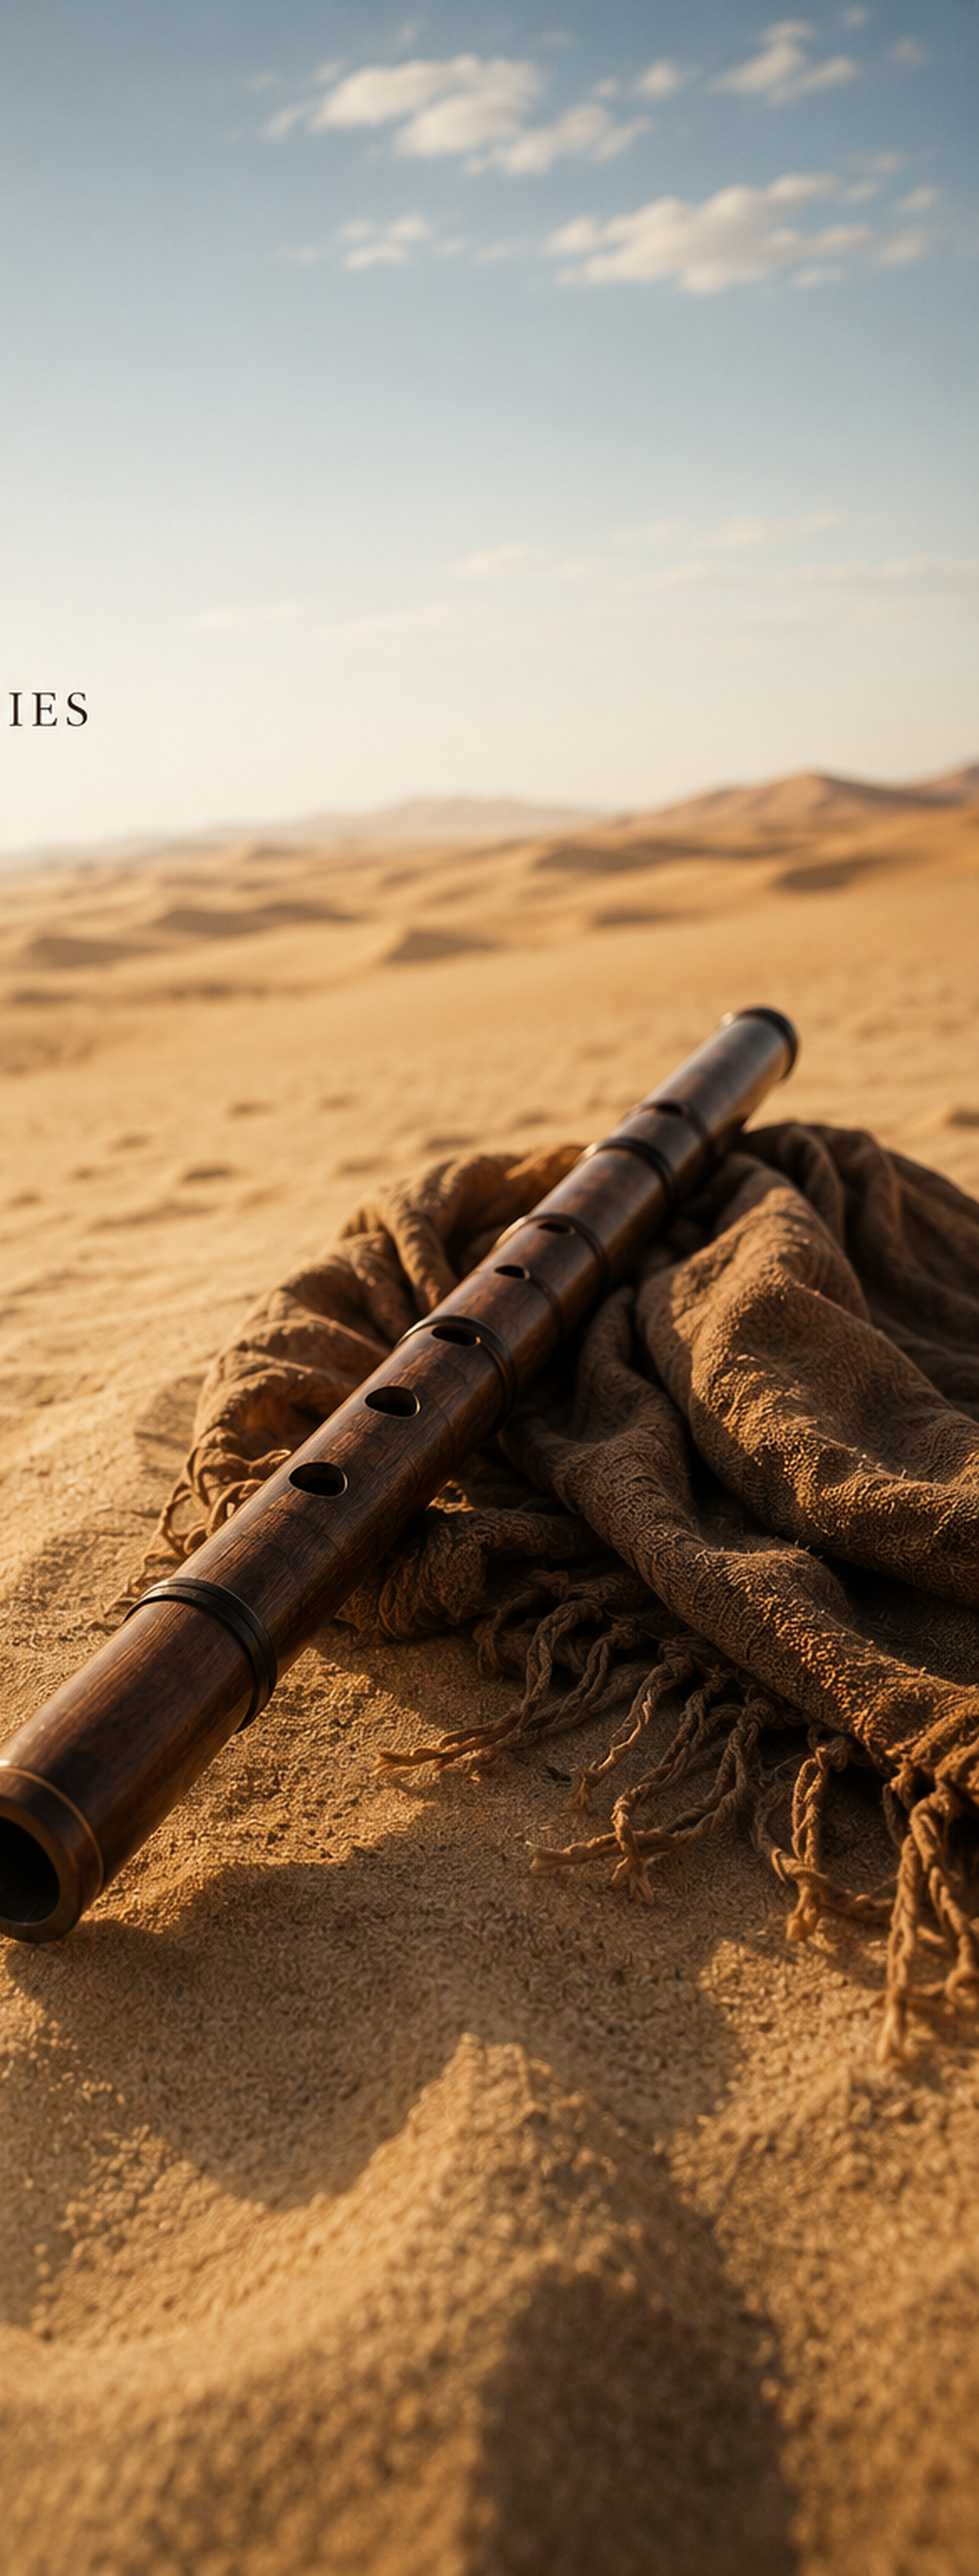
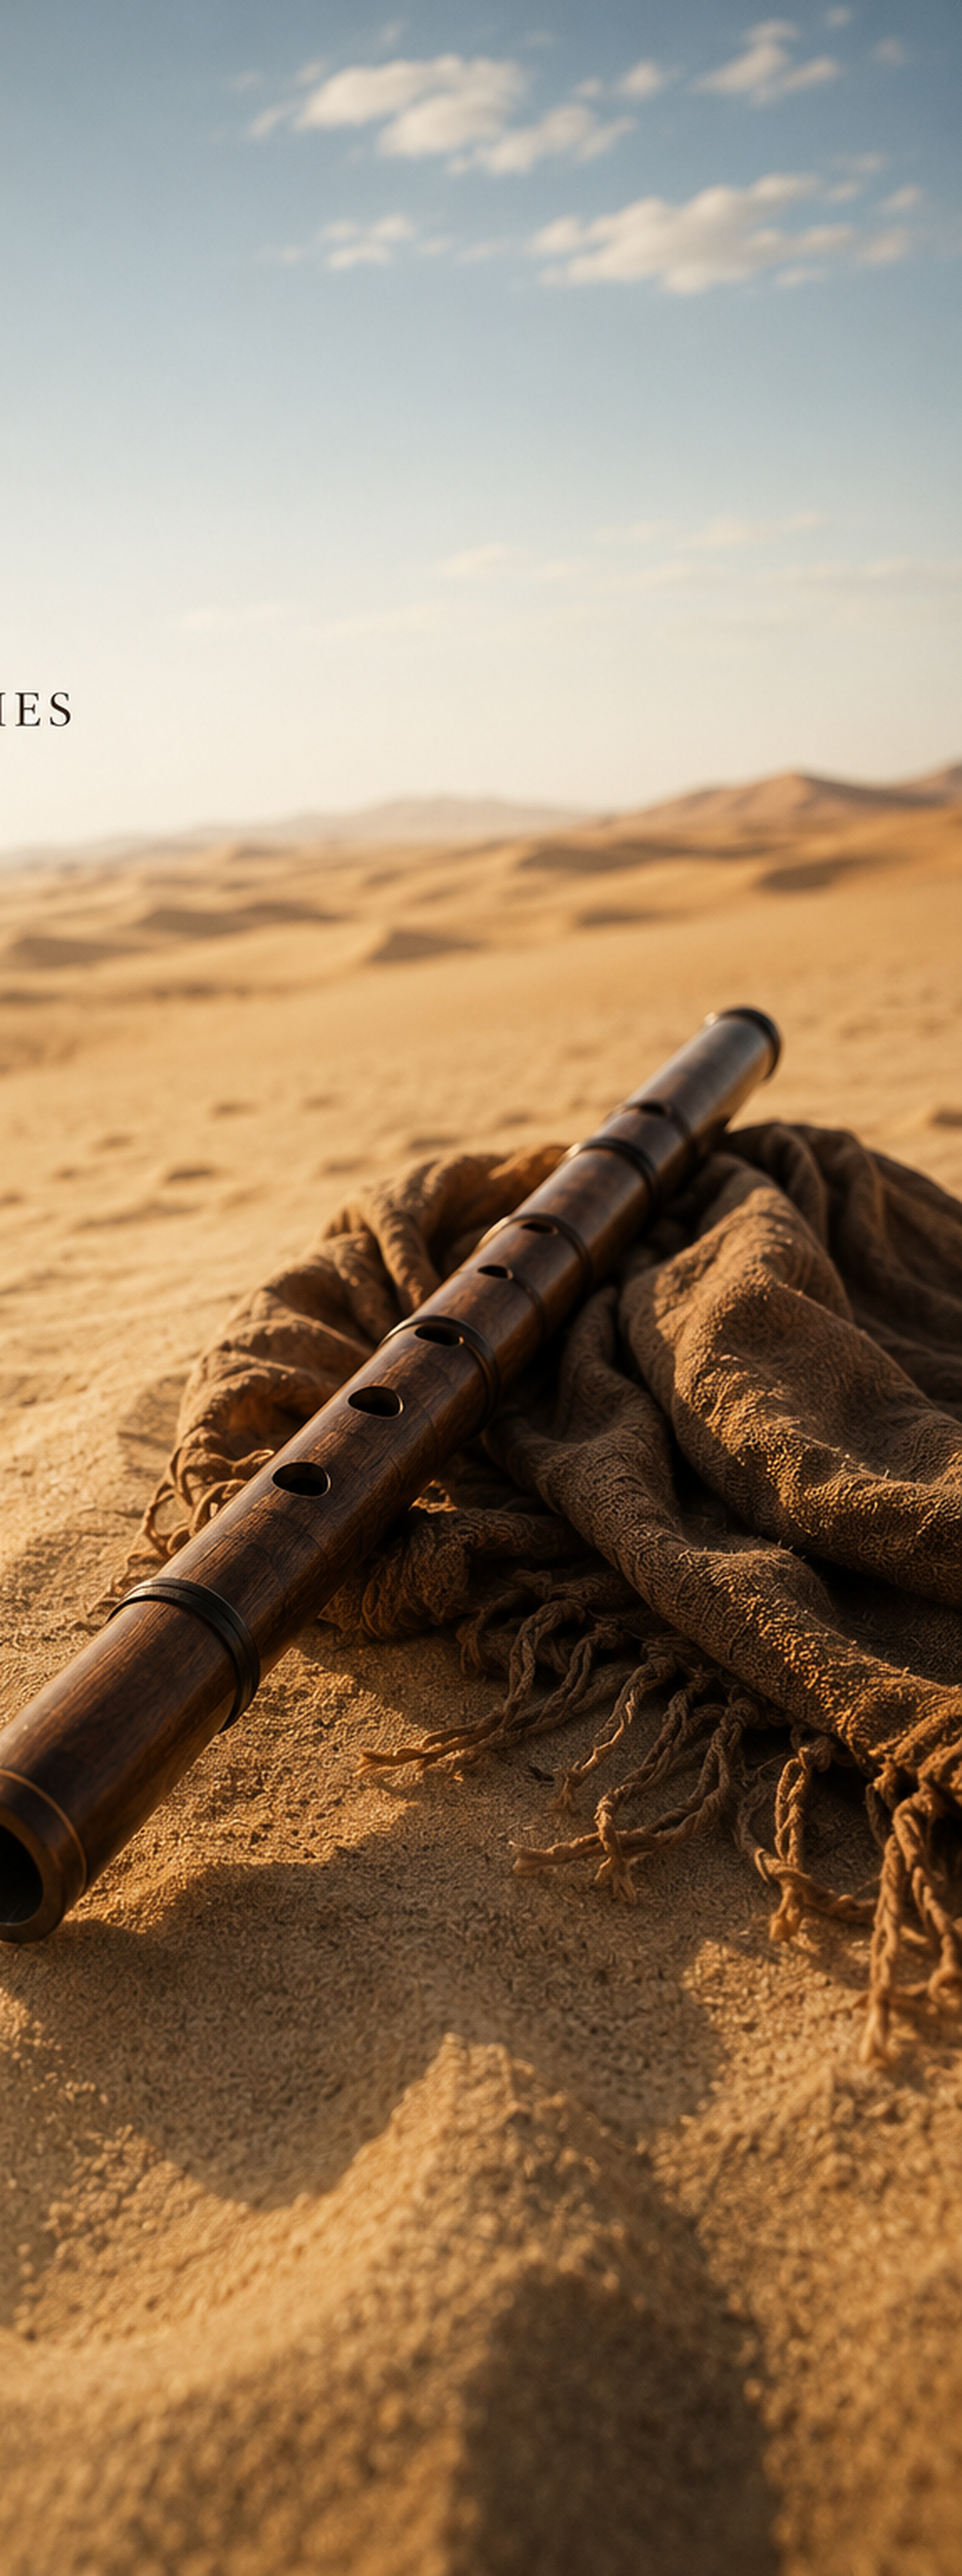
Add files via upload

diff --git a/index.html b/index.html
@@ -1,11 +1,11 @@
-<!doctype html><html lang="en"><head><meta charset="utf-8"><meta name="viewport" content="width=device-width,initial-scale=1"><meta name="description" content="Kambiz Mirzaei — songwriter, composer and producer. Selected music, musical journey and catalogue."><title>Kambiz Mirzaei — Songwriter · Composer · Producer</title><meta name="site-version" content="final-for-now"><style>
-:root{--bg:#d9d1c4;--ink:#171715;--muted:#5d5952;--line:#bfb6a9;--card:#e1d9cd;--accent:#806b52;--max:1180px}
-*{box-sizing:border-box} html{scroll-behavior:smooth} body{margin:0;background:var(--bg);color:var(--ink);font-family:Inter,ui-sans-serif,system-ui,-apple-system,BlinkMacSystemFont,"Segoe UI",sans-serif;line-height:1.65} a{color:inherit;text-decoration:none} .wrap{max-width:var(--max);margin:auto;padding:0 28px} header{min-height:calc(100vh - 116px);display:none;align-items:center;padding-top:58px;border-bottom:1px solid var(--line)} .hero{width:100%;padding:70px 0} .eyebrow{font-size:12px;letter-spacing:.18em;text-transform:uppercase;color:var(--muted);margin-bottom:22px} h1{font-family:Georgia,"Times New Roman",serif;font-size:clamp(54px,9vw,108px);line-height:.9;font-weight:400;letter-spacing:-.028em;margin:0 0 28px} .roles{font-size:18px;letter-spacing:.03em;color:var(--muted);margin-bottom:34px} .intro{max-width:720px;font-size:19px;line-height:1.7} .home-cue{position:absolute;left:50%;bottom:24px;transform:translateX(-50%);font-size:18px;color:var(--muted);animation:cue 1.8s ease-in-out infinite}@keyframes cue{0%,100%{transform:translate(-50%,0);opacity:.45}50%{transform:translate(-50%,7px);opacity:1}} nav{position:fixed;top:0;left:0;right:0;z-index:50;background:rgba(217,209,196,.95);backdrop-filter:blur(12px);border-bottom:1px solid var(--line)} nav .navin{display:flex;gap:28px;align-items:center;min-height:58px;overflow:auto;white-space:nowrap} nav a{font-size:12px;text-transform:uppercase;letter-spacing:.13em;color:var(--muted)} nav a:hover{color:var(--ink)} section{padding:110px 0;border-bottom:1px solid var(--line);scroll-margin-top:72px;display:none} section.active{display:block} header.active{display:flex} .section-kicker{font-size:11px;text-transform:uppercase;letter-spacing:.18em;color:var(--muted);margin-bottom:12px} h2{font-family:Georgia,"Times New Roman",serif;font-size:clamp(38px,5vw,62px);font-weight:400;line-height:1;margin:0 0 18px;letter-spacing:-.035em} .section-lead{max-width:730px;color:var(--muted);font-size:18px;margin-bottom:44px} details{border-top:1px solid var(--line)} details:last-child{border-bottom:1px solid var(--line)} summary{list-style:none;cursor:pointer;display:flex;justify-content:space-between;gap:24px;padding:24px 4px;font-family:Georgia,"Times New Roman",serif;font-size:24px} summary::-webkit-details-marker{display:none} summary span{font-family:system-ui;font-size:22px;color:var(--muted);transition:.2s} details[open]>summary span{transform:rotate(45deg)} .panel-body{padding:0 4px 35px;max-width:850px;color:#37352f} .panel-body p{margin:0 0 18px} .catalog-group summary{font-size:22px} .catalog-body{padding:0 0 34px} .credit-card{background:transparent;border:0;border-top:1px solid var(--line);padding:30px 4px;margin:0} .credit-card h3{font-family:Georgia,"Times New Roman",serif;font-weight:400;font-size:28px;margin:0 0 4px} .meta{color:var(--muted);font-size:14px;margin-bottom:20px} .credit-body{font-size:15px;color:#32302c} .credit-body p{margin:8px 0} .credit-body ol,.credit-body ul{margin:12px 0 22px;padding-left:24px} .subhead{font-size:12px;text-transform:uppercase;letter-spacing:.14em;color:var(--muted);margin-top:26px!important} .credit-body h4{font-size:14px;letter-spacing:.08em;text-transform:uppercase;margin:24px 0 8px} .about-grid{display:grid;grid-template-columns:1fr 1fr;gap:70px} .about-grid p{font-size:17px} .contact-box{display:flex;justify-content:space-between;gap:40px;align-items:flex-end} .contact-box .big{font-family:Georgia,"Times New Roman",serif;font-size:clamp(34px,5vw,58px);line-height:1.05} .site-
+<!doctype html><html lang="en"><head><meta charset="utf-8"><meta name="viewport" content="width=device-width,initial-scale=1"><meta name="description" content="Kambiz Mirzaei — songwriter, composer and producer. Selected music, musical journey and catalogue."><title>Kambiz Mirzaei — Songwriter · Composer · Producer</title><meta name="site-version" content="v45"><style>
+:root{--bg:#e9e2d6;--ink:#171715;--muted:#625e57;--line:#cbc3b6;--card:#f0e9de;--accent:#806b52;--max:1180px}
+*{box-sizing:border-box} html{scroll-behavior:smooth} body{margin:0;background:var(--bg);color:var(--ink);font-family:Inter,ui-sans-serif,system-ui,-apple-system,BlinkMacSystemFont,"Segoe UI",sans-serif;line-height:1.65} a{color:inherit;text-decoration:none} .wrap{max-width:var(--max);margin:auto;padding:0 28px} header{min-height:calc(100vh - 116px);display:none;align-items:center;padding-top:58px;border-bottom:1px solid var(--line)} .hero{width:100%;padding:70px 0} .eyebrow{font-size:12px;letter-spacing:.18em;text-transform:uppercase;color:var(--muted);margin-bottom:22px} h1{font-family:Georgia,"Times New Roman",serif;font-size:clamp(54px,9vw,108px);line-height:.9;font-weight:400;letter-spacing:-.028em;margin:0 0 28px} .roles{font-size:18px;letter-spacing:.03em;color:var(--muted);margin-bottom:34px} .intro{max-width:720px;font-size:19px;line-height:1.7} .home-cue{position:absolute;left:50%;bottom:24px;transform:translateX(-50%);font-size:18px;color:var(--muted);animation:cue 1.8s ease-in-out infinite}@keyframes cue{0%,100%{transform:translate(-50%,0);opacity:.45}50%{transform:translate(-50%,7px);opacity:1}} nav{position:fixed;top:0;left:0;right:0;z-index:50;background:rgba(233,226,214,.94);backdrop-filter:blur(12px);border-bottom:1px solid var(--line)} nav .navin{display:flex;gap:28px;align-items:center;min-height:58px;overflow:auto;white-space:nowrap} nav a{font-size:12px;text-transform:uppercase;letter-spacing:.13em;color:var(--muted)} nav a:hover{color:var(--ink)} section{padding:110px 0;border-bottom:1px solid var(--line);scroll-margin-top:72px;display:none} section.active{display:block} header.active{display:flex} .section-kicker{font-size:11px;text-transform:uppercase;letter-spacing:.18em;color:var(--muted);margin-bottom:12px} h2{font-family:Georgia,"Times New Roman",serif;font-size:clamp(38px,5vw,62px);font-weight:400;line-height:1;margin:0 0 18px;letter-spacing:-.035em} .section-lead{max-width:730px;color:var(--muted);font-size:18px;margin-bottom:44px} details{border-top:1px solid var(--line)} details:last-child{border-bottom:1px solid var(--line)} summary{list-style:none;cursor:pointer;display:flex;justify-content:space-between;gap:24px;padding:24px 4px;font-family:Georgia,"Times New Roman",serif;font-size:24px} summary::-webkit-details-marker{display:none} summary span{font-family:system-ui;font-size:22px;color:var(--muted);transition:.2s} details[open]>summary span{transform:rotate(45deg)} .panel-body{padding:0 4px 35px;max-width:850px;color:#37352f} .panel-body p{margin:0 0 18px} .catalog-group summary{font-size:22px} .catalog-body{padding:0 0 34px} .credit-card{background:transparent;border:0;border-top:1px solid var(--line);padding:30px 4px;margin:0} .credit-card h3{font-family:Georgia,"Times New Roman",serif;font-weight:400;font-size:28px;margin:0 0 4px} .meta{color:var(--muted);font-size:14px;margin-bottom:20px} .credit-body{font-size:15px;color:#3c3933} .credit-body p{margin:8px 0} .credit-body ol,.credit-body ul{margin:12px 0 22px;padding-left:24px} .subhead{font-size:12px;text-transform:uppercase;letter-spacing:.14em;color:var(--muted);margin-top:26px!important} .credit-body h4{font-size:14px;letter-spacing:.08em;text-transform:uppercase;margin:24px 0 8px} .about-grid{display:grid;grid-template-columns:1fr 1fr;gap:70px} .about-grid p{font-size:17px} .contact-box{display:flex;justify-content:space-between;gap:40px;align-items:flex-end} .contact-box .big{font-family:Georgia,"Times New Roman",serif;font-size:clamp(34px,5vw,58px);line-height:1.05} .site-
 .footer-in{min-height:50px;display:flex;align-items:center;justify-content:space-between;gap:20px;font-size:11px;letter-spacing:.08em;color:var(--muted);text-transform:uppercase} @media(max-width:760px){.wrap{padding:0 20px} header{min-height:calc(100vh - 126px)} .hero{min-height:calc(100vh - 180px);padding:52px 0} section{padding:75px 0} .about-grid{grid-template-columns:1fr;gap:20px} .contact-box{display:block} .footer-in{display:block;padding:14px 20px}.footer-in span{display:block;margin-top:5px} summary{font-size:21px;padding:20px 2px} .credit-card{padding:22px}}
 
 .hero{position:relative;min-height:calc(100vh - 182px);overflow:hidden;border-bottom:1px solid var(--line)}.hero-visual{position:absolute;inset:0;overflow:hidden;opacity:1;pointer-events:none;background-image:url("images/studio-hero.jpg");background-size:cover;background-position:center 48%;filter:saturate(.6) contrast(.95) brightness(.78)}.hero-visual::after{content:"";position:absolute;inset:0;background:linear-gradient(110deg,rgba(17,16,14,.78) 0%,rgba(17,16,14,.45) 44%,rgba(17,16,14,.16) 75%,rgba(17,16,14,.12) 100%)}.hero-overlay{position:absolute;inset:0;background:linear-gradient(90deg,rgba(12,12,11,.48),rgba(12,12,11,.08) 65%,rgba(12,12,11,.16));z-index:1}.hero-copy{position:relative;z-index:2;min-height:calc(100vh - 182px);display:flex;flex-direction:column;justify-content:center;padding-top:10px;color:#f5f3ee}.hero-copy .eyebrow{color:rgba(245,243,238,.72)}.hero h1{font-family:Georgia,"Times New Roman",serif;font-size:clamp(64px,10vw,120px);line-height:.84;font-weight:400;letter-spacing:-.032em;margin:0 0 26px}.hero .roles{color:rgba(245,243,238,.9);font-size:18px;margin-bottom:28px}.hero .intro{max-width:700px;color:rgba(245,243,238,.88);font-family:Georgia,"Times New Roman",serif;font-size:21px;line-height:1.5}.hero-cue{position:absolute;left:50%;bottom:26px;transform:translateX(-50%);font-size:24px;color:rgba(245,243,238,.72);animation:cue 1.8s ease-in-out infinite}@keyframes cue{0%,100%{transform:translate(-50%,0);opacity:.45}50%{transform:translate(-50%,7px);opacity:1}}
 
-.document-panel{border-top:1px solid var(--line);padding-top:42px}.journey-title{margin-bottom:34px}.journey-title h3{font-family:Georgia,"Times New Roman",serif;font-size:34px;font-weight:400;margin:0 0 6px}.journey-subtitle{color:var(--muted);font-style:italic}.journey-prose{max-width:850px;color:#2f2d29;font-size:16px}.journey-prose p{margin:0 0 20px}.journey-prose h3,.catalog-heading{font-family:Georgia,"Times New Roman",serif;font-weight:400;font-size:30px;line-height:1.15;margin:58px 0 20px}.journey-prose h3:first-child{margin-top:0}.catalog-document{border-top:1px solid var(--line)}.catalog-heading{padding:30px 4px 6px;margin:0;font-size:30px}.catalog-document>.credit-card:first-child{border-top:0}.catalog-document .credit-card{display:block}.catalog-document details{display:block}.catalog-document summary{cursor:default}.catalog-document .catalog-body{padding:0}.catalog-document>.catalog-document{border-top:0}.catalog-document .subhead{margin-top:26px!important}@media(max-width:760px){.journey-prose h3,.catalog-heading{font-size:26px}}
+.document-panel{border-top:1px solid var(--line);padding-top:42px}.journey-title{margin-bottom:34px}.journey-title h3{font-family:Georgia,"Times New Roman",serif;font-size:34px;font-weight:400;margin:0 0 6px}.journey-subtitle{color:var(--muted);font-style:italic}.journey-prose{max-width:850px;color:#37352f;font-size:16px}.journey-prose p{margin:0 0 20px}.journey-prose h3,.catalog-heading{font-family:Georgia,"Times New Roman",serif;font-weight:400;font-size:30px;line-height:1.15;margin:58px 0 20px}.journey-prose h3:first-child{margin-top:0}.catalog-document{border-top:1px solid var(--line)}.catalog-heading{padding:30px 4px 6px;margin:0;font-size:30px}.catalog-document>.credit-card:first-child{border-top:0}.catalog-document .credit-card{display:block}.catalog-document details{display:block}.catalog-document summary{cursor:default}.catalog-document .catalog-body{padding:0}.catalog-document>.catalog-document{border-top:0}.catalog-document .subhead{margin-top:26px!important}@media(max-width:760px){.journey-prose h3,.catalog-heading{font-size:26px}}
 
 .album-art{margin:0 0 30px;max-width:520px}.album-art img{display:block;width:100%;height:auto;border:1px solid var(--line)}
 
@@ -63,7 +63,7 @@ body{display:block;min-height:100vh;padding-bottom:0}
   height:50px !important;
   margin:0 !important;
   border-top:1px solid var(--line) !important;
-  background:rgba(217,209,196,.97) !important;
+  background:rgba(233,226,214,.96) !important;
   backdrop-filter:blur(8px);
   -webkit-backdrop-filter:blur(8px);
   pointer-events:none;
@@ -254,6 +254,27 @@ summary{font-size:20px}
   .work-hero .work-item{padding:17px 0 15px}
 }
 
+
+@media(max-width:760px){
+  .site-footer{height:58px !important}
+  .site-footer .footer-inner{
+    height:58px !important;
+    min-height:58px !important;
+    padding:0 14px !important;
+    gap:2px !important;
+    align-items:center !important;
+    justify-content:center !important;
+    line-height:1.15 !important;
+    font-size:9px !important;
+  }
+  .site-footer .footer-inner span{
+    display:block !important;
+    margin:0 !important;
+  }
+  header.active{min-height:calc(100vh - 58px) !important}
+  .hero,.hero-copy{min-height:calc(100vh - 116px) !important}
+}
+
 </style></style></head><body>
 <header id="home" class="active"><div class="hero"><div class="hero-visual" aria-hidden="true"></div><div class="hero-overlay"></div><div class="wrap hero-copy"><div class="eyebrow">Toronto · Independent Music</div><h1>Kambiz<br>Mirzaei</h1><div class="roles">Songwriter · Composer · Producer</div><p class="intro">Toronto-based artist with a body of work from lyric-driven songs to ambient, electronic, and orchestral music.</p><div class="hero-cue">↓</div></div></div></header>
 <nav><div class="wrap navin"><a href="#home">Home</a><a href="#music">Work</a><a href="#journey">Musical Journey</a><a href="#catalogue">Selected Catalogue</a><a href="#about">About</a><a href="#contact">Contact</a></div></nav>
@@ -312,7 +333,7 @@ summary{font-size:20px}
 </div>
 <div>
 <p>He also teaches music production, sharing the practical and creative experience developed through years of independent studio work.</p>
-<p>Alongside music, Kambiz holds a Doctor of Pharmacy degree and has worked in Clinical Pharmacy and Informatics in Canada for decades.</p>
+<p>Alongside music, Mirzaei holds a Doctor of Pharmacy degree and has worked in Clinical Pharmacy and Informatics in Canada for decades.</p>
 </div>
 </div></div></section>
 <section id="contact"><div class="wrap">
